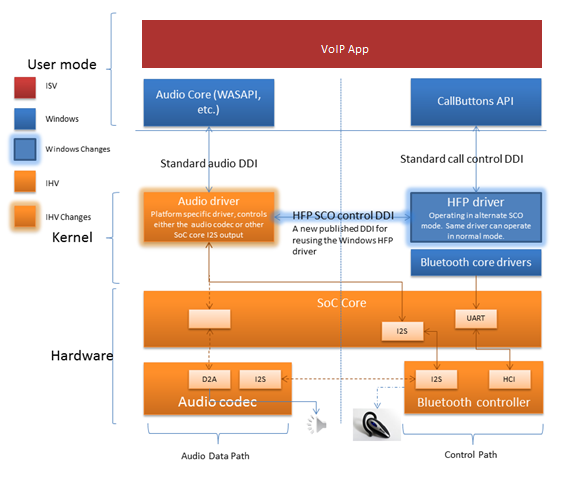
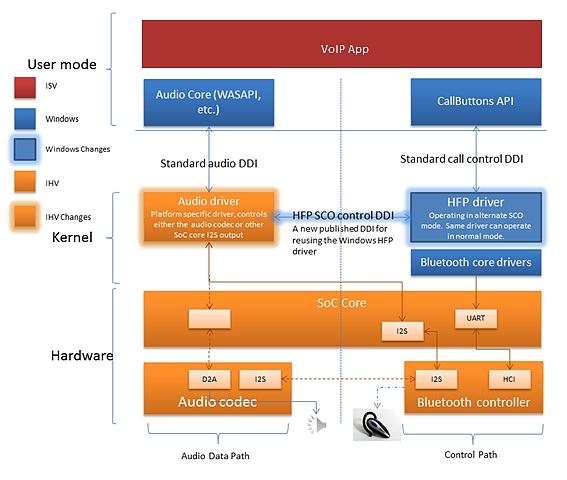
This PR is to merge in various edits as well as added requested registry key. (#1958)
* Adding SCO INF section

* Added Sideband SCO Transport to Bluetooth topic

* Removed irrelevant content

* Updates based on tech review

* Updates based on tech review

* Edits

* Sharpened

---------

diff --git a/windows-driver-docs-pr/audio/setting-friendly-name--registering-apos.md b/windows-driver-docs-pr/audio/setting-friendly-name--registering-apos.md
@@ -1,41 +1,44 @@
 ---
-title: Setting Friendly Names, Registering APOs
+title: Setting Friendly Names, Sideband SCO Transport and Registering APOs
 description: This topic describes how a Port Class Bluetooth sideband audio driver can set the friendly name for a device interface, and register any APO that is used by the Bluetooth device.
-ms.date: 04/20/2017
+ms.date: 10/05/2022
 ---
 
-# Setting Friendly Names, Registering APOs
+# Setting Friendly Names, Sideband SCO Transport, and Registering APOs
 
+The Setting Friendly Names, Sideband SCO Transport, and Registering APOs topic describes how a Port Class Bluetooth sideband audio driver can set the friendly name for a device interface, identify itself as having sideband SCO transport, and register any audio processing object (APO) that is used by the Bluetooth device.
 
-The Setting Friendly Names, Registering APOs topic describes how a Port Class Bluetooth sideband audio driver can set the friendly name for a device interface, and register any audio processing object (APO) that is used by the Bluetooth device.
+For each enabled GUID_DEVINTERFACE_BLUETOOTH_HFP_SCO_HCIBYPASS interface, the Port Class audio driver (PortCls) normally calls the PcRegisterSubdevice function, which registers PnP device interfaces that represent a sub-device on an audio adapter. In typical audio driver designs, the audio driver calls PcRegisterSubdevice for "wave" and "topology" sub-devices, which are then connected by calling other Port Class functions.
 
-For each enabled GUID\_DEVINTERFACE\_BLUETOOTH\_HFP\_SCO\_HCIBYPASS interface, the Port Class audio driver (PortCls) normally calls the PcRegisterSubdevice function, which registers PnP device interfaces that represent a sub-device on an audio adapter. In typical audio driver designs, the audio driver calls PcRegisterSubdevice for “wave” and “topology” sub-devices, which are then connected by calling other Port Class functions.
+Before calling PcRegisterSubdevice for the "topology" sub-device, the driver follows the procedure described in [Setting Properties and Registry Values](setting-properties-and-registry-values.md) to set properties and registry values on the interface in the KSCATEGORY_AUDIO interface class. The specific properties and registry values are described in the following sections.
 
-Before calling PcRegisterSubdevice for the “topology” sub-device, the driver follows the procedure described in [Setting Properties and Registry Values](setting-properties-and-registry-values.md) to set properties and registry values on the interface in the KSCATEGORY\_AUDIO interface class. The specific properties and registry values are described in the following sections.
+## DEVPKEY_DeviceInterface_FriendlyName
 
-## <span id="DEVPKEY_DeviceInterface_FriendlyName"></span><span id="devpkey_deviceinterface_friendlyname"></span><span id="DEVPKEY_DEVICEINTERFACE_FRIENDLYNAME"></span>DEVPKEY\_DeviceInterface\_FriendlyName
-
-
-The audio driver sends an [**IOCTL\_BTHHFP\_DEVICE\_GET\_DESCRIPTOR**](/windows-hardware/drivers/ddi/bthhfpddi/ni-bthhfpddi-ioctl_bthhfp_device_get_descriptor) request to the Hands-free profile (HFP) audio driver. The requested information is returned in the form of a [**BTHHFP\_DESCRIPTOR**](/windows-hardware/drivers/ddi/bthhfpddi/ns-bthhfpddi-_bthhfp_descriptor) structure, plus an other data referenced by the structure. The audio driver then calls IoSetDeviceInterfacePropertyData to set DEVPKEY\_DeviceInterface\_FriendlyName to the value in the *FriendlyName* field of the **BTHHFP\_DESCRIPTOR** structure.
+The audio driver sends an [**IOCTL_BTHHFP_DEVICE_GET_DESCRIPTOR**](/windows-hardware/drivers/ddi/bthhfpddi/ni-bthhfpddi-ioctl_bthhfp_device_get_descriptor) request to the Hands-free profile (HFP) audio driver. The requested information is returned in the form of a [**BTHHFP_DESCRIPTOR**](/windows-hardware/drivers/ddi/bthhfpddi/ns-bthhfpddi-_bthhfp_descriptor) structure, plus an other data referenced by the structure. The audio driver then calls IoSetDeviceInterfacePropertyData to set DEVPKEY_DeviceInterface_FriendlyName to the value in the *FriendlyName* field of the **BTHHFP_DESCRIPTOR** structure.
 
 The audio driver sets the parameters to IoSetDeviceInterfacePropertyData as follows:
 
--   SymbolicLinkName = the string returned from IoRegisterDeviceInterface
+- SymbolicLinkName = the string returned from IoRegisterDeviceInterface
+- PropertyKey = DEVPKEY_DeviceInterface_FriendlyName
+- Lcid = LOCALE_NEUTRAL
+- Flags = PLUGPLAY_PROPERTY_PERSISTENT
+- Type = DEVPROP_TYPE_STRING_INDIRECT
+- Size = BTHHFP_DESCRIPTOR.FriendlyName.Length + sizeof(UNICODE_NULL)
+- Data = BTHHFP_DESCRIPTOR.FriendlyName.Buffer
 
--   PropertyKey = DEVPKEY\_DeviceInterface\_FriendlyName
+## USB Bluetooth controller sideband SCO transport
 
--   Lcid = LOCALE\_NEUTRAL
+To have the USB Bluetooth controller identify itself as having sideband SCO transport, specify BthUsb_SidebandSco.NT, instead of BthUsb.NT that is normally used in the controller INF file.
 
--   Flags = PLUGPLAY\_PROPERTY\_PERSISTENT
+```inf
+Needs=BthUsb_SidebandSco.NT 
+```
 
--   Type = DEVPROP\_TYPE\_STRING\_INDIRECT
+Setting this value means that a dedicated audio interface will be used to transfer audio in and out of the controller rather than USB endpoints.
 
--   Size = BTHHFP\_DESCRIPTOR.FriendlyName.Length + sizeof(UNICODE\_NULL)
+For more information about the INF *Needs* directive, see [INF DDInstall section](/windows-hardware/drivers/install/inf-ddinstall-section).
 
--   Data = BTHHFP\_DESCRIPTOR.FriendlyName.Buffer
-
-## <span id="APO_registration"></span><span id="apo_registration"></span><span id="APO_REGISTRATION"></span>APO registration
-
+## APO registration
 
 As described in [Setting Properties and Registry Values](setting-properties-and-registry-values.md), the driver can set registry values for a device interface. To register an APO, the audio driver sets several values on the device interface. These values are the same as those that are often set for APO registration in an INF, and the specific values will change from one audio driver to the next.
 
@@ -46,9 +49,9 @@ HKR,"EPFX\\0",%PKEY_FX_Association%,,%KSNODETYPE_ANY%
 HKR,"EPFX\\0",%PKEY_FX_EndpointEffectClsid%,,%FX_DISCOVER_EFFECTS_APO_CLSID%
 ```
 
-**Note**  The syntax shown in the preceding snippet doesn't include instructions for registering the COM server of the APO.
+> [!NOTE]
+> The syntax shown in the preceding snippet doesn't include instructions for registering the COM server of the APO.
 
- 
+## Related topics
 
-## <span id="related_topics"></span>Related topics
-[Related Design Guidelines](related-design-guidelines.md)
+- [Related Design Guidelines](related-design-guidelines.md)

diff --git a/windows-driver-docs-pr/audio/btth-architectural-overview.md b/windows-driver-docs-pr/audio/btth-architectural-overview.md
@@ -1,32 +1,23 @@
 ---
-title: Windows Bluetooth host controller interface (HCI) Architectural Overview
-description: This topic presents an architectural overview of the Windows 8.1 support for rerouting audio data to bypass the Bluetooth host controller interface (HCI).
-ms.date: 10/22/2018
+title: Windows Bluetooth host controller interface (HCI) architectural overview
+description: This article presents an architectural overview of the Windows support for rerouting audio data to bypass the Bluetooth host controller interface (HCI).
+ms.date: 04/27/2023
 ---
 
-# Windows Bluetooth host controller interface (HCI) Architectural Overview
+# Windows Bluetooth host controller interface (HCI) architectural overview
 
+This article presents an architectural overview of the Windows support for rerouting audio data to bypass the Bluetooth host controller interface (HCI).
 
-This topic presents an architectural overview of the Windows 8.1 support for rerouting audio data to bypass the Bluetooth host controller interface (HCI).
-
-Starting with Windows 8.1, the Microsoft operating system has been updated to be compatible with low power system-on-a-chip (SoC) design solutions. The new Windows support is compatible with either Intel-based or Arm-based SoC designs. These new low-power devices will be optimized for “always on” scenarios, so low battery consumption will be a key factor for success.
+Starting with Windows 8.1, the Microsoft operating system has been updated to be compatible with low power system-on-a-chip (SoC) design solutions. Windows supports Intel-based and Arm-based SoC designs. These new low-power devices are optimized for "always on" scenarios, so low battery consumption is a key factor for success.
 
 SoC architectures use the Universal Asynchronous Receiver/Transmitter (UART) transport mode to transmit data to and from the Bluetooth host controller.
 
-Because UARTs cannot provide time sensitive data transmission, a synchronous connection oriented (SCO) bypass channel must be implemented in addition to a UART, to transfer audio data via I2S or some other connection between the audio codec and the Bluetooth radio. This means that audio data must be rerouted to bypass the Bluetooth HCI. The Bluetooth HCI which would normally be used on PCs to transmit audio data.
+Because UARTs can't provide time sensitive data transmission, a synchronous connection oriented (SCO) bypass channel must be implemented in addition to a UART. The SCO bypass channel transfers audio data via I2S or some other connection between the audio codec and the Bluetooth radio. Audio data must be rerouted to bypass the Bluetooth HCI, which would normally be used to transmit audio data on PCs.
 
-It is important to note that this feature is simply offloading the same functionality that exists in versions of Windows prior to Windows 8.1, so from a user perspective there are no use cases that are different between the Bluetooth hands-free profile (HFP) on SoC and Bluetooth HFP in Windows on a PC or laptop.
+This feature is offloading the same functionality that exists in versions of Windows prior to Windows 8.1. From a user perspective, there are no use cases that are different between the Bluetooth hands-free profile (HFP) on SoC and Bluetooth HFP in Windows.
 
 The following diagram shows the software and hardware components that work together to provide this new support in Windows 8.1.
 
-![diagram showing the software and hardware components that work together to provide windows support for bluetooth bypass audio streaming.](images/btth-bypass-arch.png)
+:::image type="content" source="images/btth-bypass-arch.png" alt-text="Diagram showing the software and hardware components that work together to provide Windows support for Bluetooth bypass audio streaming.":::
 
-Note that this Windows feature does not support bypass audio streaming using advanced audio distribution profile (A2DP). Windows 8 provides a separate A2DP profile driver that completely supports audio functionality through the standard Bluetooth HCI without requiring any additional audio drivers.
-
- 
-
- 
-
-
-
-
+This Windows feature doesn't support bypass audio streaming using advanced audio distribution profile (A2DP). Windows 8 provides a separate A2DP profile driver that completely supports audio functionality through the standard Bluetooth HCI without requiring any other audio drivers.

diff --git a/windows-driver-docs-pr/bluetooth/creating-a-sco-client-connection-to-a-remote-device.md b/windows-driver-docs-pr/bluetooth/creating-a-sco-client-connection-to-a-remote-device.md
@@ -5,31 +5,24 @@ keywords:
 - Synchronous Connection-Oriented WDK Bluetooth
 - SCO profile drivers WDK Bluetooth
 - initiating SCO connections
-ms.date: 04/20/2017
+ms.date: 09/22/2022
 ---
 
 # Creating a SCO Client Connection to a Remote Device
-
 
 A SCO client profile driver is a profile driver that requests Synchronous Connection-Oriented (SCO) connection to a remote device. If the device accepts the connection, the SCO client profile driver is notified of any changes to the connection. For example, a SCO client profile driver can request a connection to a remote headset, and after the headset accepts the connection request, the Bluetooth driver stack can notify the profile driver when the headset is turned off or removed.
 
 Because SCO connections are point-to-point connections between two Bluetooth devices, a SCO client profile driver needs only the Bluetooth address of the remote device to connect to.
 
-To initiate a SCO connection to a remote device, profile drivers should [build and send](building-and-sending-a-brb.md) a [**BRB\_SCO\_OPEN\_CHANNEL**](/previous-versions/ff536626(v=vs.85)) request.
+To initiate a SCO connection to a remote device, profile drivers should [build and send](building-and-sending-a-brb.md) a [_BRB_SCO_OPEN_CHANNEL](/windows-hardware/drivers/ddi/bthddi/ns-bthddi-_brb_sco_open_channel) request.
 
-If the remote device accepts the profile driver's SCO connection request, the profile driver can then perform additional BRB commands across the newly connected channel by using IOCTL\_INTERNAL\_BTH\_SUBMIT\_BRB, including:
+If the remote device accepts the profile driver's SCO connection request, the profile driver can then perform additional BRB commands across the newly connected channel by using [**IOCTL_INTERNAL_BTH_SUBMIT_BRB**](/windows-hardware/drivers/ddi/bthioctl/ni-bthioctl-ioctl_internal_bth_submit_brb) to submit a Bluetooth Request Block (BRB) to the Bluetooth driver stack, including:
 
--   [**BRB\_SCO\_GET\_CHANNEL\_INFO**](/previous-versions/ff536624(v=vs.85))
+- [_BRB_SCO_GET_CHANNEL_INFO](/windows-hardware/drivers/ddi/bthddi/ns-bthddi-_brb_sco_get_channel_info)
+- [_BRB_SCO_GET_SYSTEM_INFO](/windows-hardware/drivers/ddi/bthddi/ns-bthddi-_brb_sco_get_system_info)
+- [_BRB_SCO_TRANSFER](/windows-hardware/drivers/ddi/bthddi/ns-bthddi-_brb_sco_transfer)
 
--   [**BRB\_SCO\_GET\_SYSTEM\_INFO**](/previous-versions/ff536625(v=vs.85))
+> [!NOTE]
+> Profile drivers should [build and send](building-and-sending-a-brb.md) a **BRB_SCO_GET_SYSTEM_INFO** request during initialization to determine if the underlying hardware supports SCO and, if so, what the global SCO settings are.
 
--   [**BRB\_SCO\_TRANSFER**](/previous-versions/ff536629(v=vs.85))
-
-**Note**  Profile drivers should [build and send](building-and-sending-a-brb.md) a **BRB\_SCO\_GET\_SYSTEM\_INFO** request during initialization to determine if the underlying hardware supports SCO and, if so, what the global SCO settings are.
-
- 
-
-When the profile driver no longer requires the SCO connection to the remote device, it should [build and send](building-and-sending-a-brb.md) a [**BRB\_SCO\_CLOSE\_CHANNEL**](/previous-versions/ff536622(v=vs.85)) request.
-
- 
-
+When the profile driver no longer requires the SCO connection to the remote device, it should [build and send](building-and-sending-a-brb.md) a [_BRB_SCO_CLOSE_CHANNEL](/windows-hardware/drivers/ddi/bthddi/ns-bthddi-_brb_sco_close_channel) request.
